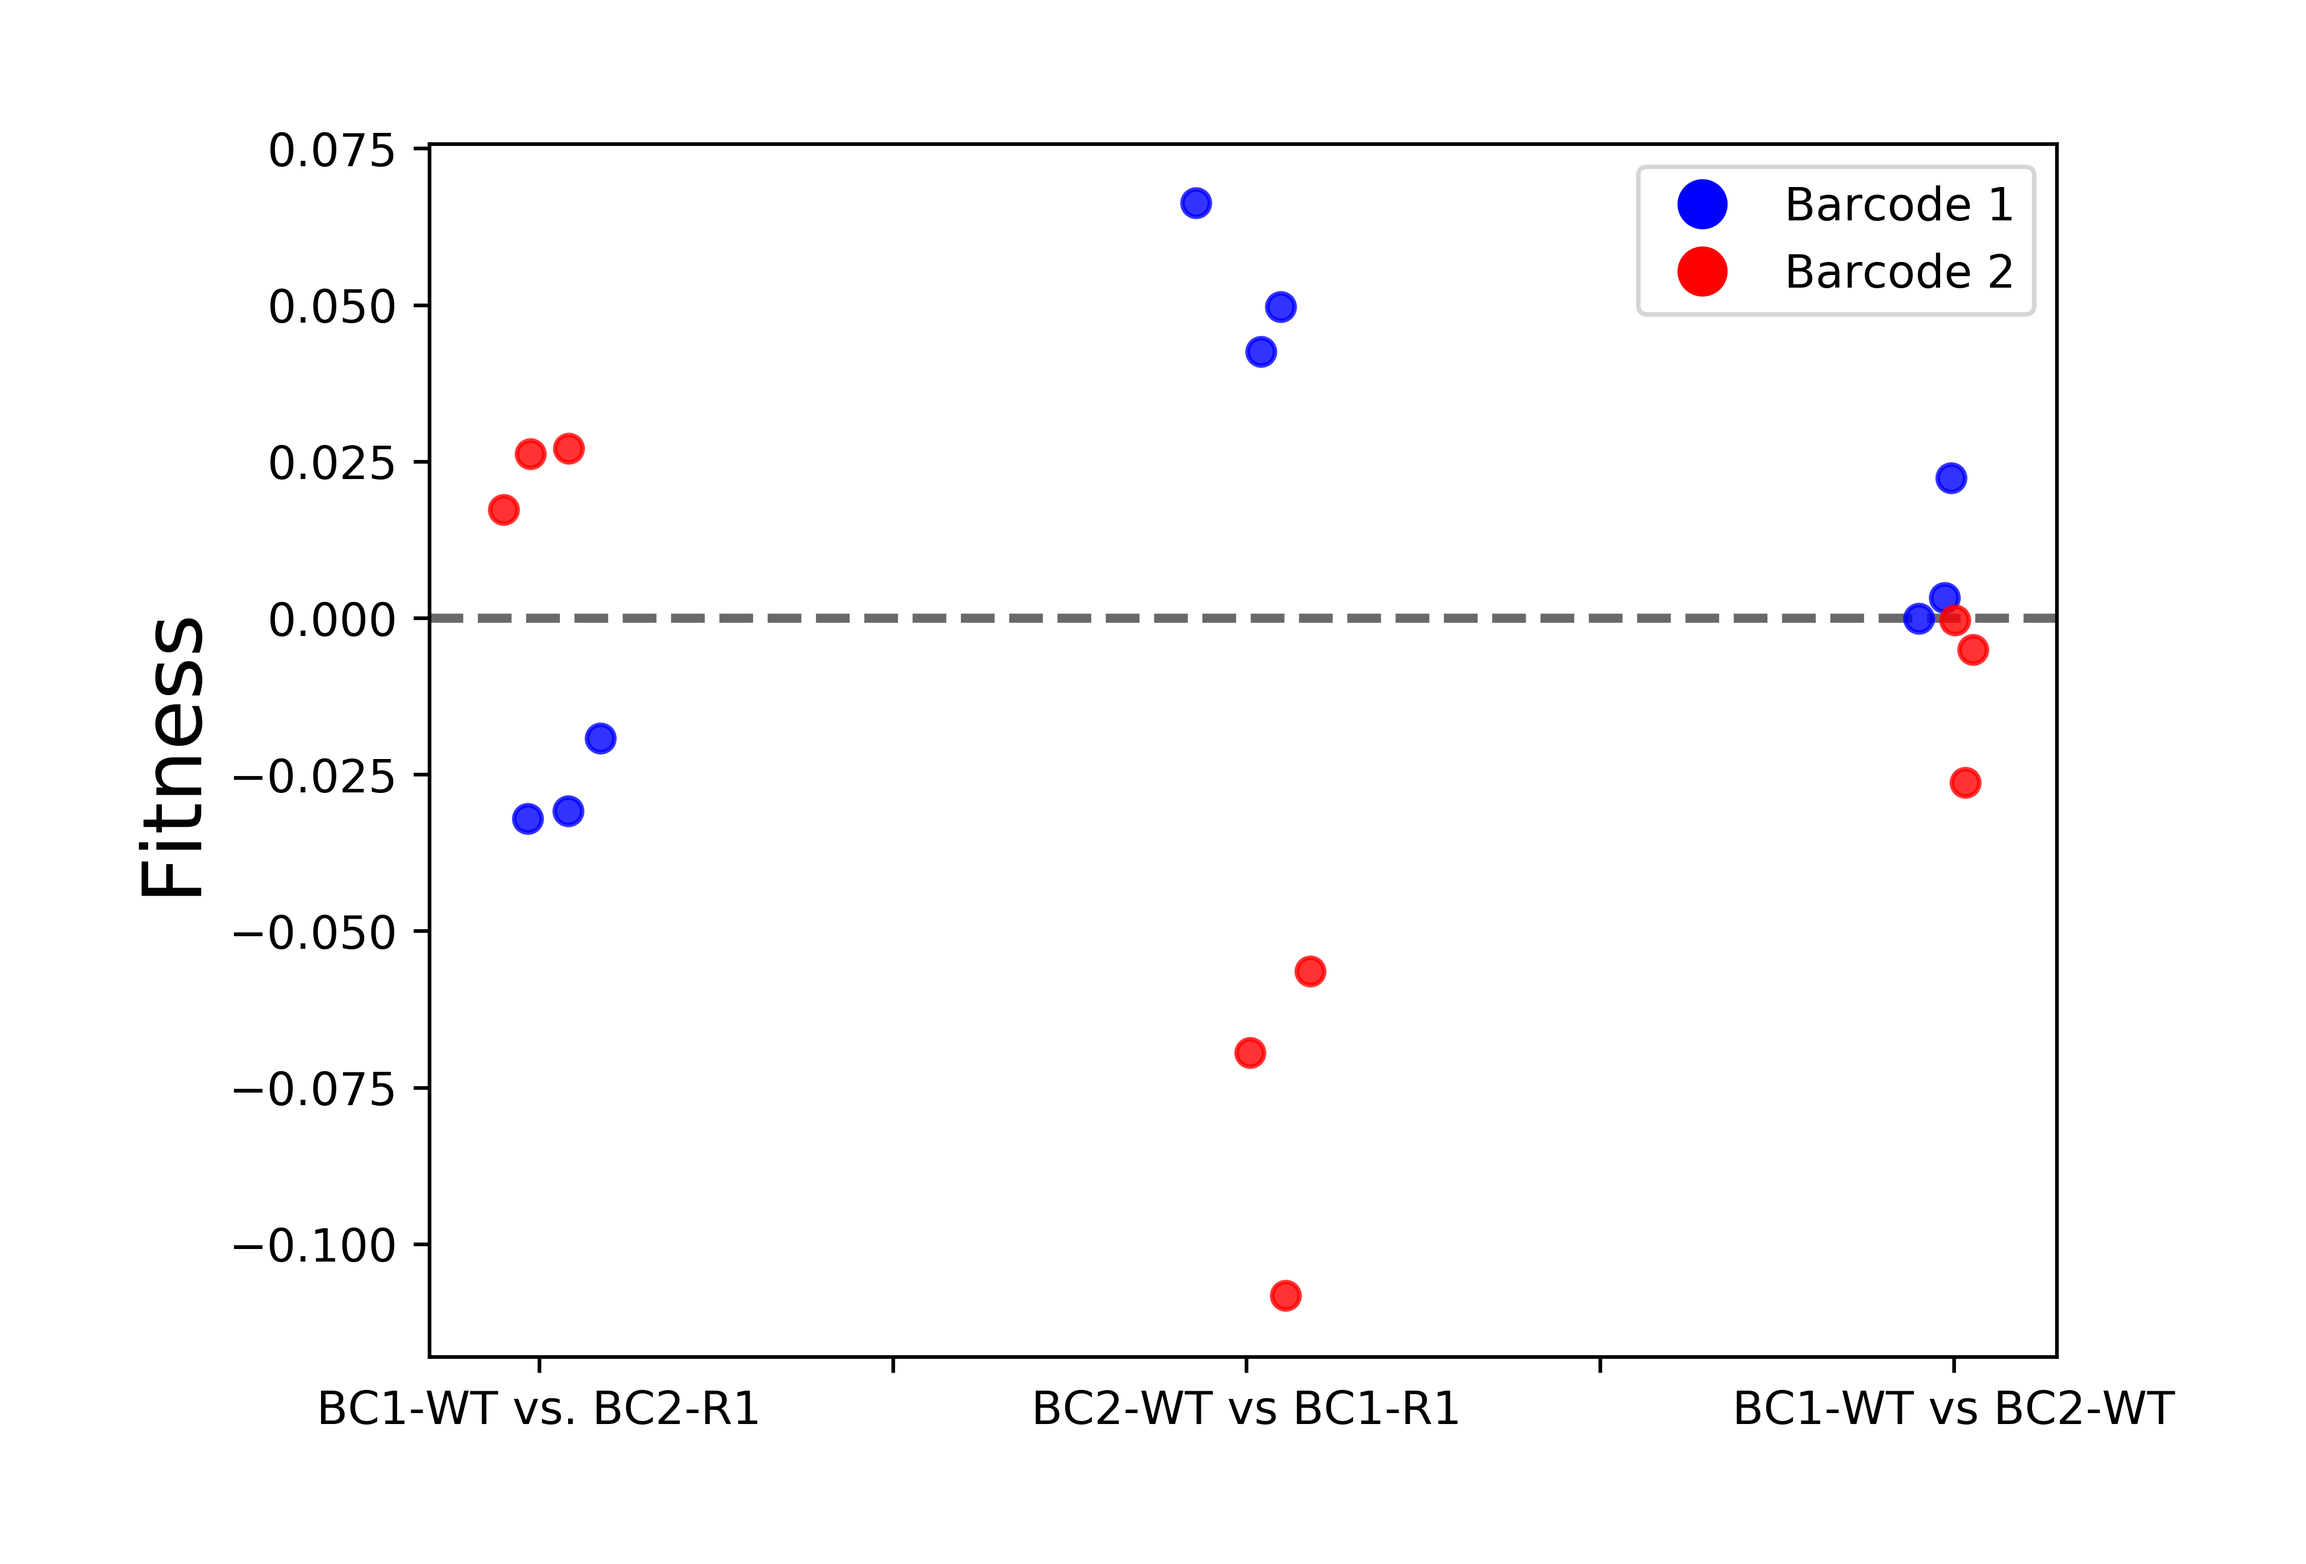
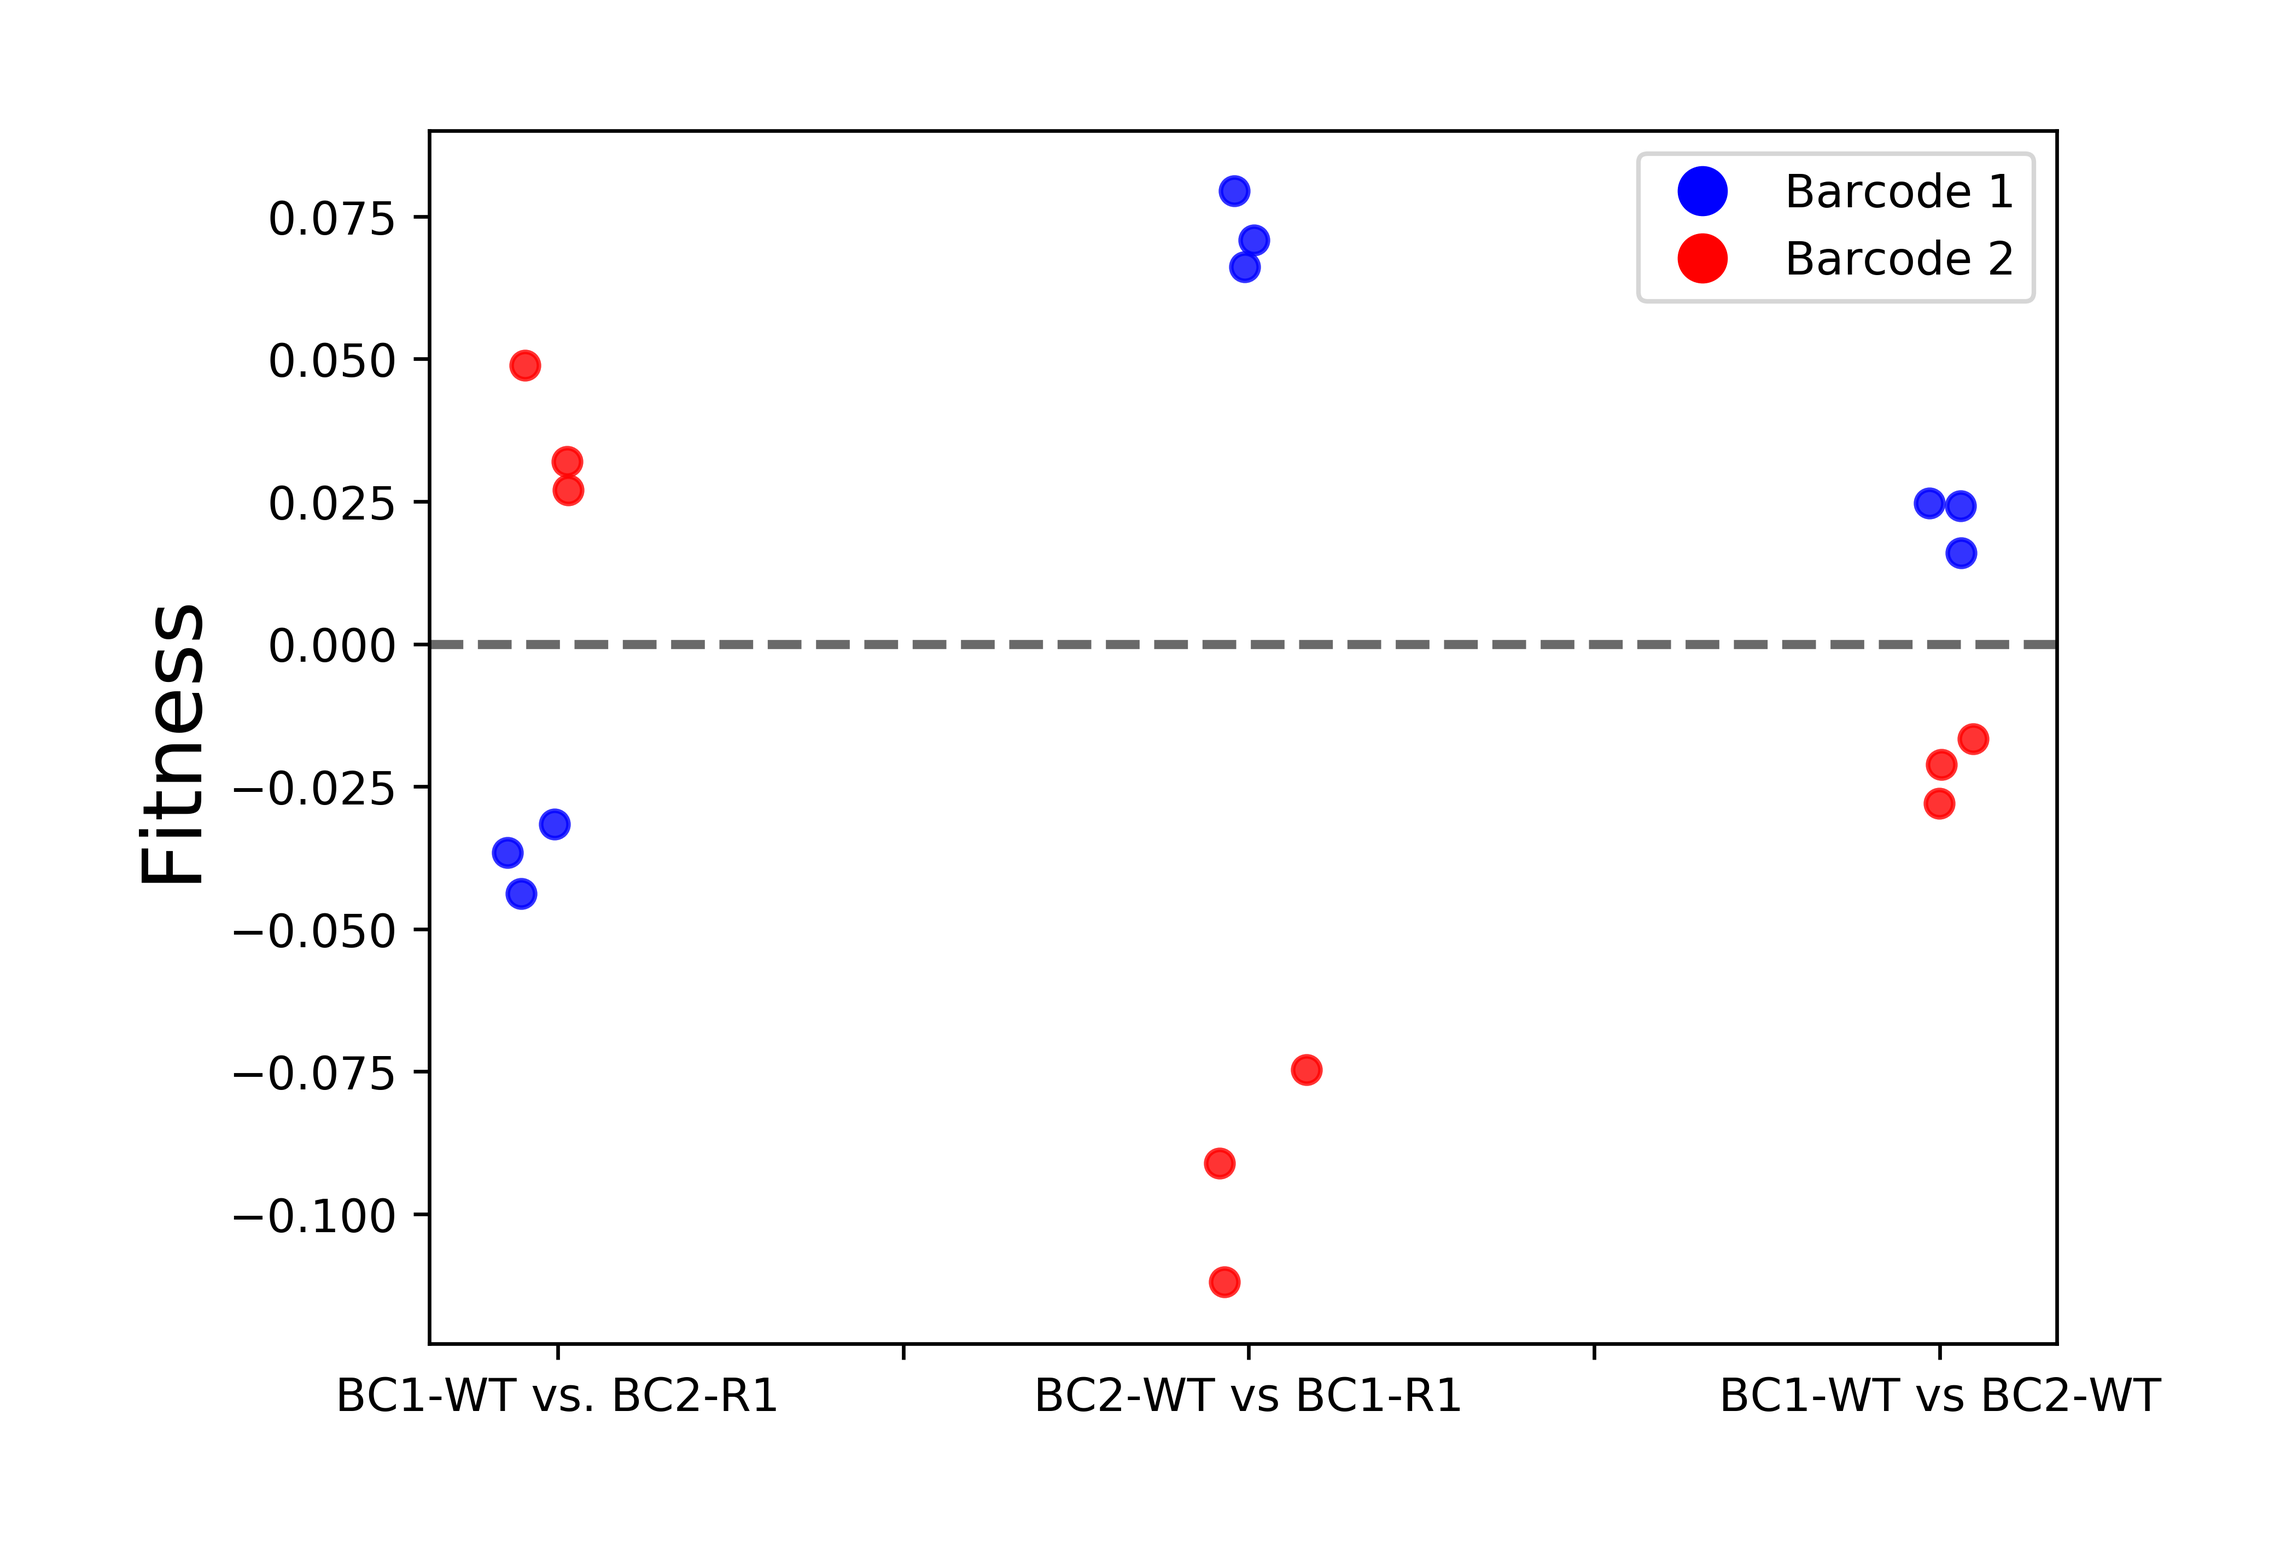
add init freq from flow cyto

diff --git a/Python/make_figs.py b/Python/make_figs.py
@@ -10,6 +10,15 @@ path = os.path.expanduser("~/GitHub/BacillusBarcodes")
 bc1 = 'TCAGACGTGTGA'
 bc2 = 'CAGCCTAGTACG'
 
+bc1_freq_0 = {'GSF2346-F1-A':0.502632411,'GSF2346-F1-B':0.515677676,
+            'GSF2346-F1-C':0.59174401, 'GSF2346-F2-A':0.415243398,
+            'GSF2346-F2-B':0.43089695, 'GSF2346-F2-C':0.486277276,
+            'GSF2346-F3-A':0.425032152, 'GSF2346-F3-B':0.459793851,
+            'GSF2346-F3-C':0.49423082}
+
+
+
+
 # assume two fold dilution
 # log_2 (100) ~= 6.64
 time = 6.64
@@ -36,8 +45,13 @@ with open(path + '/data/barcode_counts.txt', 'r') as fh:
         f1 = bc1 / (bc1+bc2)
         f2 = 1 - f1
 
-        x1 = np.exp( (np.log(f1) - np.log(0.5)) / time ) - 1
-        x2 = np.exp( (np.log(f2) - np.log(0.5)) / time ) - 1
+        print(name, f1)
+
+        f1_0 = bc1_freq_0[name]
+        f2_0 = 1- f1_0
+
+        x1 = np.exp( (np.log(f1) - np.log(f1_0)) / time ) - 1
+        x2 = np.exp( (np.log(f2) - np.log(f2_0)) / time ) - 1
         mean_x = (x1*f1) + (x2*f2)
 
         #if 'F2' in name:
